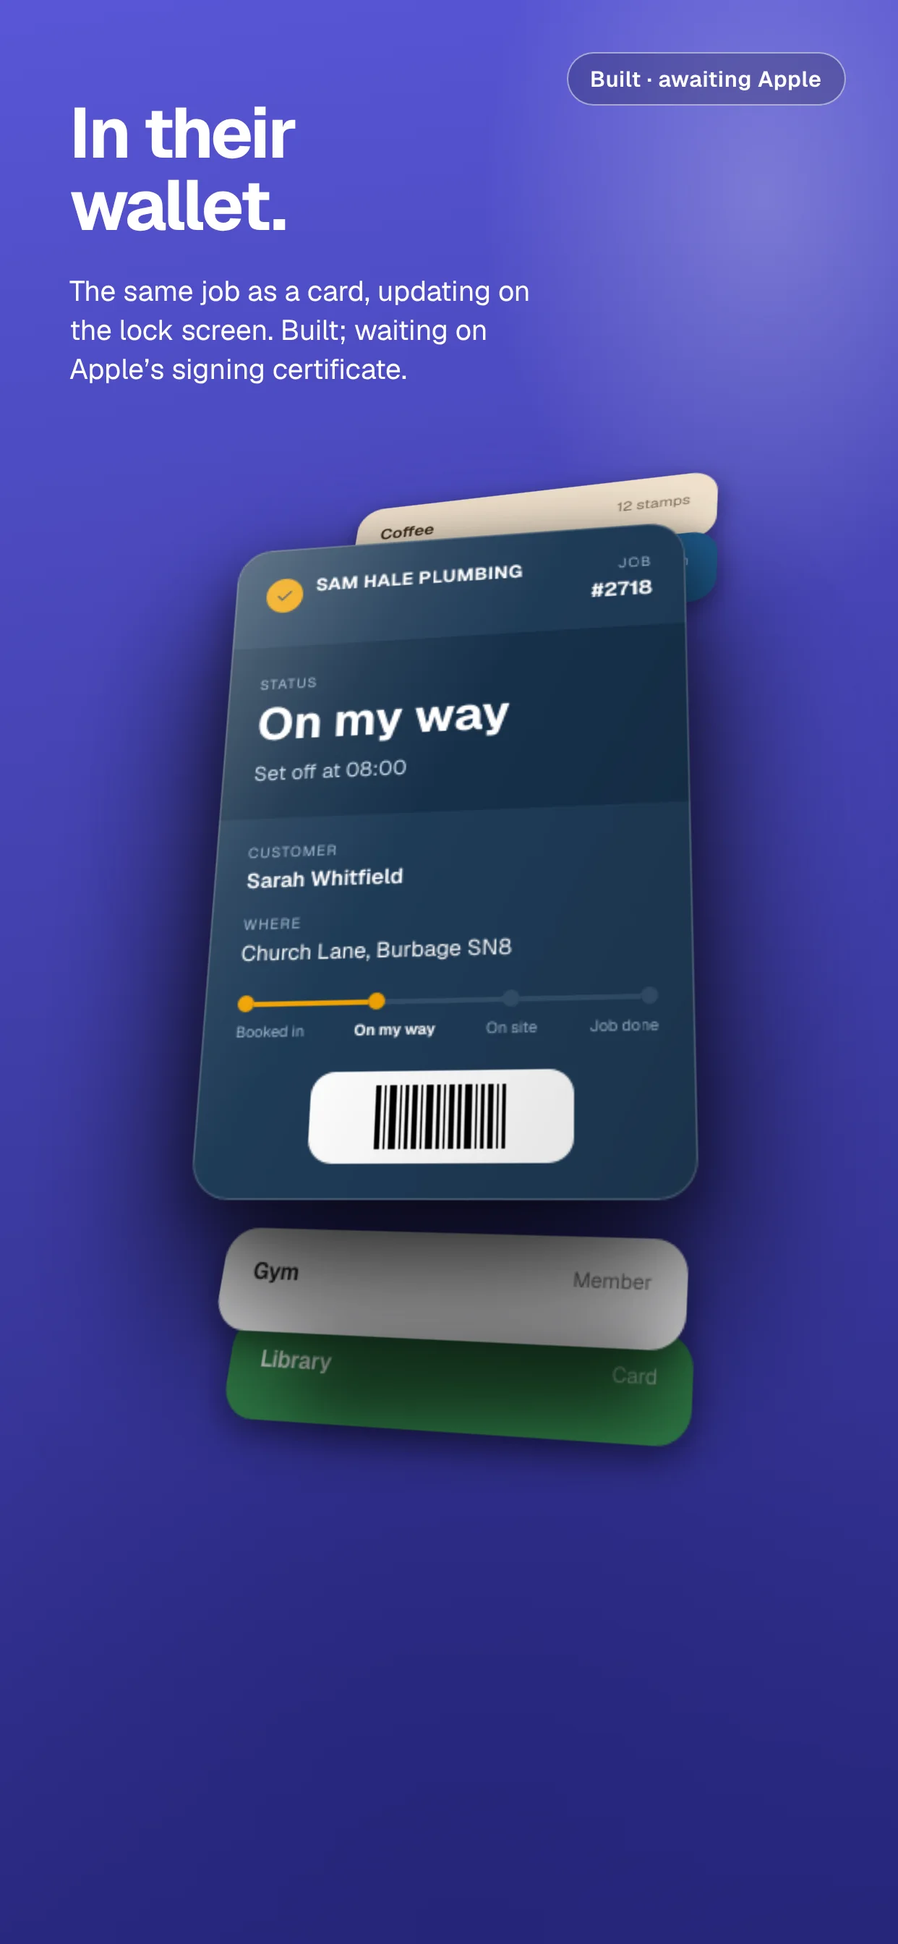
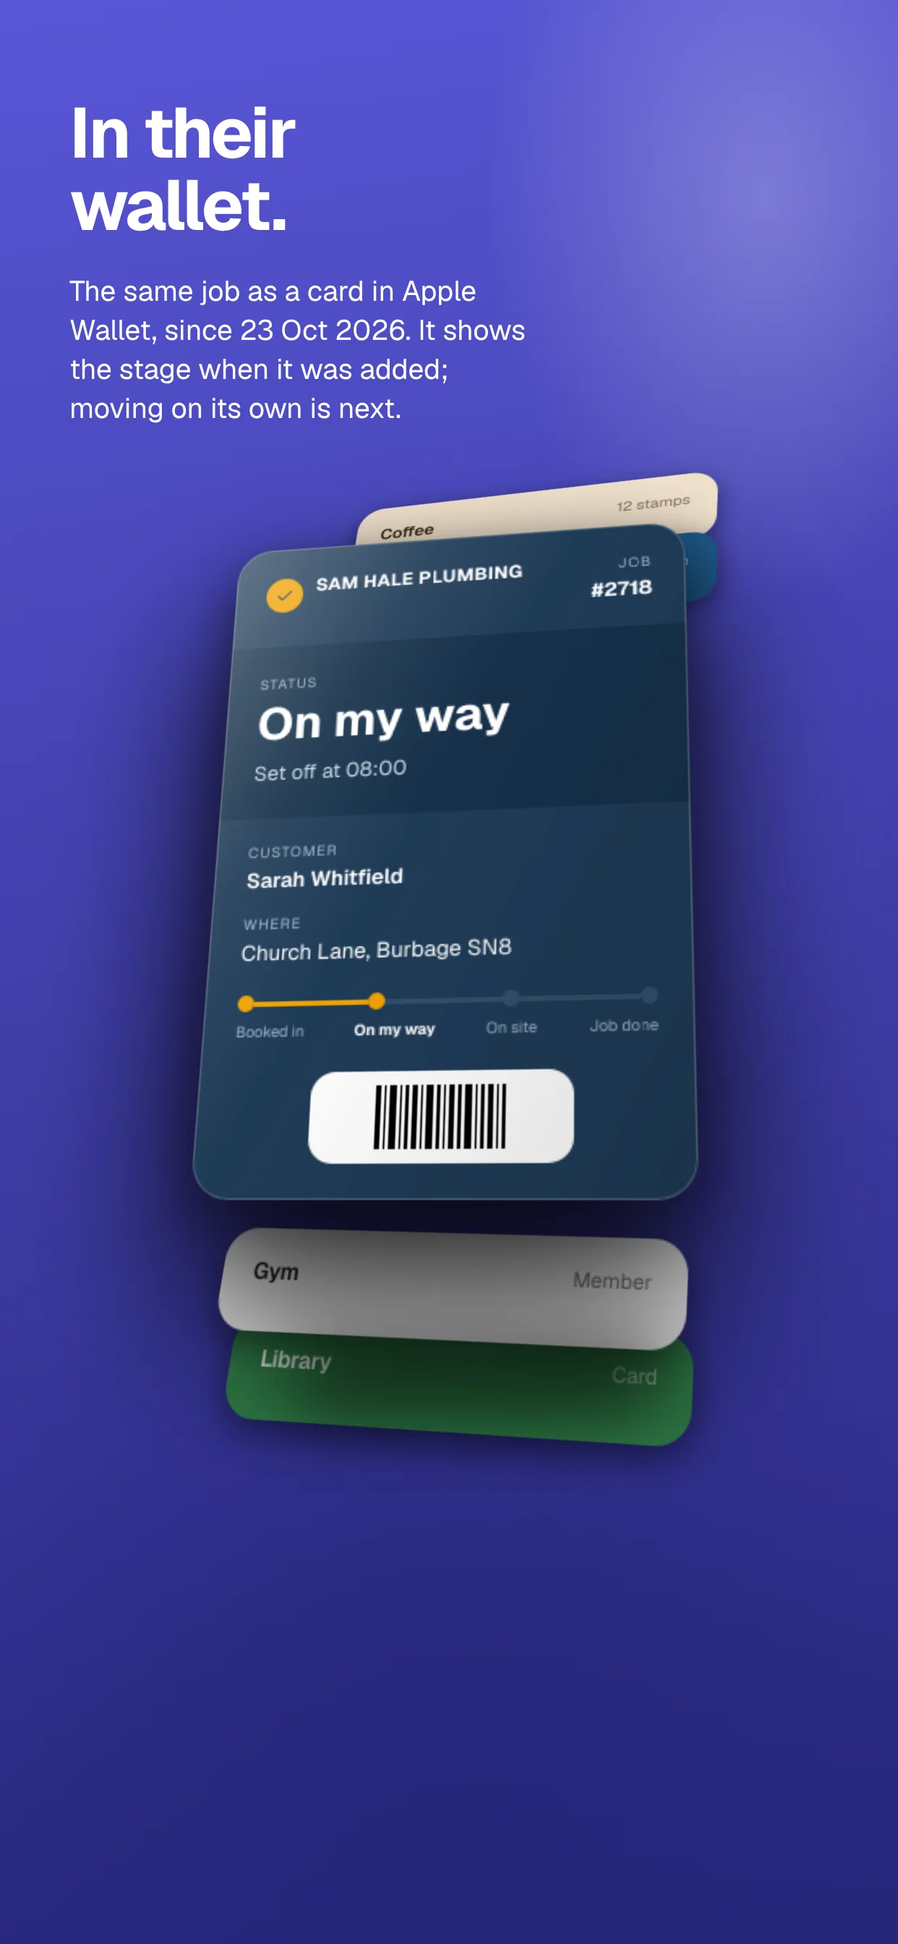
v1.71.1: the card is in a wallet
The first real TurnUp pass was added to Apple Wallet on the owner's iPhone
on 23 Oct 2026, from a live job link. So the words move: the "Built,
awaiting Apple" badge comes off the homepage and the WalletStory section,
the wallet poster is live (re-shot, so the badge is not baked into the
frame), wallet-pass in the roadmap is live, the plan's row is green and its
next step is the update service, and CLAUDE.md's "Not built yet" says what
is true: on an iPhone it is a card, a still one; on Android it is a link.

Nothing says the card updates itself. It shows the stage from when it was
added; the PassKit web service and the APNs push are the next build.

Claude-Session: https://claude.ai/code/session_01CJXUr3iMKBtG4JFBvyaxwW

Changed region(s): [[0.0612, 0.125, 0.5813, 0.2188], [0.6119, 0.0, 0.9485, 0.0625]]

diff --git a/src/lib/plan.js b/src/lib/plan.js
@@ -31,7 +31,7 @@ export const PLAN_META = {
   walletDocUrl: 'https://github.com/willgaze/turnup/blob/main/docs/apple-wallet.md',
   diaryUrl: 'https://github.com/willgaze/turnup/tree/main/docs/diary',
   liveSince: '8 Oct 2026',
-  updated: '22 Oct 2026',
+  updated: '23 Oct 2026',
 }
 
 export const STAGES = [
@@ -67,8 +67,8 @@ export const MOATS = [
   },
   {
     n: '3', name: 'One integration', line: 'Both wallets, the update loop, push, SMS fallback, the privacy rules. They would rather buy that than own it.',
-    today: ['Apple pass signing: built, unsigned', 'Push: live, a real buzz on a real phone', 'ServiceM8: connected, reads every booking, texts the link, follows a move', 'The email letterbox: a Cloudflare Worker, receiving since 18 Oct', 'Email through ServiceM8 when push cannot reach a phone', 'Privacy rules: written and checked by script'],
-    missing: ['A signed pass in a real wallet', 'Google Wallet', 'The pass update web service', 'An API another firm can call'],
+    today: ['Apple Wallet card: live, the first one added 23 Oct 2026; static until the update service', 'Push: live, a real buzz on a real phone', 'ServiceM8: connected, reads every booking, texts the link, follows a move', 'The email letterbox: a Cloudflare Worker, receiving since 18 Oct', 'Email through ServiceM8 when push cannot reach a phone', 'Privacy rules: written and checked by script'],
+    missing: ['Google Wallet', 'The pass update web service', 'An API another firm can call'],
     gate: 'A firm that is not customer zero calls the API', pct: 40,
   },
 ]
@@ -88,7 +88,7 @@ export const STATUS = [
   { item: 'Privacy policy', state: 'green', note: 'a public page, getturnup.com/privacy, since 17 Oct 2026' },
   { item: 'ServiceM8 Add-on Store', state: 'amber', note: 'listing written 17 Oct 2026; public release needs an account per trade and a support mailbox' },
   { item: 'Lock-screen app (iOS)', state: 'amber', note: 'the job as a Live Activity, written 15 Oct 2026; the Apple enrolment is live since 21 Oct, the signing job for the app is next' },
-  { item: 'Apple Wallet card', state: 'amber', note: 'certificate live 21 Oct 2026: /api/passes serves a pass signed by Apple\'s chain (checked). Amber until the first card is seen in a real wallet' },
+  { item: 'Apple Wallet card', state: 'green', note: 'live: certificate 21 Oct 2026, first real card in the owner\'s wallet 23 Oct 2026. It shows the stage from when it was added; the update service is the next build' },
   { item: 'Google Wallet card', state: 'red', note: 'not built; decide whether to build on a pass platform' },
   { item: 'Paying customers', state: 'red', note: `none, ${TRADE_NAME} is customer zero` },
   { item: 'Pricing', state: 'amber', note: 'free for every sender, enterprise per card, decided 9 Oct 2026' },
@@ -98,7 +98,7 @@ export const STATUS = [
 /** The three things only the owner can move, each with the link and the step. */
 export const WAITING_ON_OWNER = [
   { label: 'Start the thirty-day count', step: 'Press Start on the pilot panel: the thirty days count from that day, not from whenever you look. The app counts three numbers; you type the calls to the booking line on the same panel. Move 1', href: 'https://www.getturnup.com/dashboard?open=pilot' },
-  { label: 'Put the first card in a wallet', step: 'Certificate done 21 Oct; /api/passes answers 200 with a signed pass. Next: Add to Apple Wallet on the owner\'s iPhone, then the badge, the roadmap and this row go live. The pass web service is the build after', href: 'https://github.com/willgaze/turnup/blob/main/docs/apple-wallet.md' },
+  { label: 'Make the card move on its own', step: 'First card in a wallet 23 Oct 2026. Next: the PassKit web service (/api/passes/v1: device registration, what changed) and an APNs push with the same certificate, so a stage tap updates the card. Until then it shows the stage from when it was added', href: 'https://github.com/willgaze/turnup/blob/main/docs/apple-wallet.md' },
   { label: 'ServiceM8 developer account', step: 'Free. Puts every TurnUp event in the job diary and opens the add-on listing. Move 3', href: 'https://www.servicem8.com/developer-registration' },
 ]
 
@@ -130,7 +130,7 @@ export const PRODUCT = {
     { label: 'A household card per address', note: 'the plumber, the sofa, the parcels, from forwarded email; a home makes its own on /join' },
     { label: 'Email when no notification lands', note: 'set off, window missed, the day-before ask; through ServiceM8, from the trade’s own address, once per job' },
     { label: 'ServiceM8 sends the link', note: 'every booking followed; check-in moves the card to On site, completion to Job done' },
-    { label: 'Apple Wallet card', note: 'signed pass served since 21 Oct 2026; first wallet add still to be seen' },
+    { label: 'Apple Wallet card', note: 'live since 23 Oct 2026; static until the update service' },
     { label: 'Old links keep working', note: 'tradestatus.vercel.app still serves' },
   ],
   never: [
@@ -149,7 +149,7 @@ export const PRODUCT = {
 export const FLOW = {
   inputs: ['Trade taps a stage', 'ServiceM8 check-in or check-out', 'A forwarded delivery email', 'An enterprise scheduler, by API'],
   core: 'TurnUp',
-  outputs: ['The link, on any phone', 'The household card, beside the parcels', 'A buzz on the lock screen', 'The card in the wallet, once signed'],
+  outputs: ['The link, on any phone', 'The household card, beside the parcels', 'A buzz on the lock screen', 'The card in Apple Wallet'],
 }
 
 /** The wallet card: what exists, what is missing, and why it is the product. */
@@ -162,7 +162,7 @@ export const WALLET = {
   ],
   built: [
     { label: 'Pass design and signing', note: 'tested end to end with a stand-in certificate chain, v1.15.4' },
-    { label: 'Add to Apple Wallet button', note: 'appears on the customer page on an Apple device, once a pass can be signed' },
+    { label: 'Add to Apple Wallet button', note: 'on the customer page on an Apple device; live' },
     { label: 'Three-command certificate script', note: 'scripts/apple-wallet.sh: csr, finish, then vercel, which never uploads the key folder' },
     { label: 'Name and stage on the pass', note: 'from the trade profile; the logo itself is not on the pass yet' },
   ],
@@ -170,8 +170,7 @@ export const WALLET = {
     { label: 'Apple Developer Programme', note: 'the owner enrols as an individual, 79 pounds a year', who: 'owner' },
     { label: 'Pass update web service', note: '/api/passes/v1: device registration, what changed, APNs push, so the card updates itself. Today a pass shows the stage at the moment it was added', who: 'build' },
     { label: 'Google Wallet', note: 'issuer account, a pass class, and the same update loop on Android. Or a pass platform, if faster', who: 'build' },
-    { label: 'A real pass in a real wallet', note: 'nobody has held one yet. The first one is the test', who: 'owner' },
-  ],
+      ],
 }
 
 /** Who else solves this. A working view, not a product-by-product study. */
@@ -253,7 +252,7 @@ export const CALC_DEFAULTS = { freeSenders: 50, newFree: 20, enterprises: 0, new
 /** Six moves, in order. Each opens when the gate before it is passed. */
 export const GTM_PHASES = [
   { phase: '1', label: 'Prove it on my own jobs', gate: 'Thirty days, four numbers', moves: ['ServiceM8 connected, the link in every booking text', 'Asked the day before: will someone be in? Built 11 Oct 2026', 'Links opened, “in?” answered, wasted trips, “when are you coming?” calls', 'If the first two stay low, the product is wrong, not the pitch'], when: 'Now', state: 'amber' },
-  { phase: '2', label: 'Sign the pass', gate: 'One card in one wallet', moves: ['Apple Developer, as an individual', 'First real pass, on the owner’s phone', 'The update loop so it moves'], when: 'Now', state: 'amber' },
+  { phase: '2', label: 'Sign the pass', gate: 'One card in one wallet: met 23 Oct 2026', moves: ['Apple Developer, as an individual: done 21 Oct 2026', 'First real pass, on the owner’s phone: done 23 Oct 2026', 'The update loop so it moves: next'], when: 'Now', state: 'amber' },
   { phase: '3', label: 'Be ServiceM8’s card', gate: 'Ten ServiceM8 trades sending', moves: ['Connector live on customer zero: done, 9 Oct 2026', 'Add-on listing: written 17 Oct 2026; public release needs an account per trade and a support mailbox', 'Ask ten ServiceM8 trades, once, whether they would pay £9.99 a month: the research’s one cheap test, before any billing is built', 'An account per trade, so a second business can sign up', 'Stage vocabulary published'], when: 'Q4 2026', state: 'gray' },
   { phase: '4', label: 'Android, on a pass platform if faster', gate: 'Both wallets live', moves: ['Decide: PassKit or our own', 'Google Wallet pass class', 'Same update loop'], when: 'Q1 2027', state: 'gray' },
   { phase: '5', label: 'The household asks for it', gate: 'Household-requested cards outnumber trade-sent', moves: ['The household card exists, 12 Oct 2026; a home makes its own on /join since 18 Oct', 'Customer-invite: one screen', 'Remembered for the next trade'], when: '2027 H1', state: 'gray' },
@@ -279,7 +278,7 @@ export const RISKS = [
   { label: 'ServiceM8 ships a reopenable status page', likelihood: 'high', answer: 'Be their card first: the add-on in their store, the record they do not keep. Public standard', kind: 'estimate' },
   { label: 'Free for everyone earns nothing for a year', likelihood: 'high', answer: 'Hosting is pence a card. The Ltd and a raise decision come before the first enterprise', kind: 'estimate' },
   { label: 'The owner has no spare hours', likelihood: 'high', answer: 'The nightly build does the building', kind: 'estimate' },
-  { label: 'Apple never signs the pass', likelihood: 'low', answer: 'The link works without it. The card is the upgrade, not the floor', kind: 'estimate' },
+  { label: 'Apple never signs the pass', likelihood: 'closed', answer: 'Apple signed it on 21 Oct 2026 and the first card was in a wallet on 23 Oct. The link still works without it', kind: 'fact' },
   { label: 'Name clash on TurnUp', likelihood: 'medium', answer: 'Trademark check before spending on the name', kind: 'estimate' },
   { label: 'Customer data on a public link', likelihood: 'low', answer: 'Stage only. Answers never leave the device', kind: 'estimate' },
   { label: 'The household card only reads email; carriers text', likelihood: 'high', answer: 'Read the shop’s dispatch email and say so. Never read SMS: that needs an app, which we promised never to need', kind: 'estimate' },
@@ -347,7 +346,7 @@ export const REVIEWER = {
     { id: 'toby:read', label: 'The share link has been opened on your own phone and read end to end' },
     { id: 'toby:updated', label: 'The plan’s “updated” date is inside the last week' },
   ],
-  notGatedOn: 'Not waiting for Apple. The pass being unsigned is a fact on the Wallet page, and he will understand it better than anyone.',
+  notGatedOn: 'Not waiting on the update service. The card is in a wallet and does not yet move on its own; that is a fact on the Wallet page, and he will understand it better than anyone.',
   message: `Toby, I'd like you to sign up to this. It's an idea I've had: one link per job that tells the customer when the plumber is actually coming, ending up as a card in their wallet. I've built it and I'm using it on my own jobs now.
 
 I'd really like your thoughts. If you think it's a good idea, tell me what's wrong with it. If you don't, tell me that.

diff --git a/src/components/WalletStory.jsx b/src/components/WalletStory.jsx
@@ -313,7 +313,7 @@ function PassBack() {
 const LIKE = [
   ['One per job', 'like a ticket', <TickIcon key="t" size={20} />],
   ['Beside their bank card', 'where they already look', <WalletIcon key="w" size={20} />],
-  ['Will change as the job moves', 'once Apple signs it: not yet', <BellIcon key="b" size={20} />],
+  ['Will change as the job moves', 'the update service is next: not yet', <BellIcon key="b" size={20} />],
   ['Scan it', 'the page opens', <PhoneIcon key="p" size={20} />],
 ]
 
@@ -324,7 +324,7 @@ export default function WalletStory() {
       <div>
         <div className="flex flex-wrap items-center gap-2">
           <H3>Where it lives</H3>
-          <Badge>Built · awaiting Apple</Badge>
+          <Badge>In Apple Wallet</Badge>
         </div>
         <p className="mt-1 text-[15px] muted">The buzz on the lock screen is live today.</p>
         <div className="mt-4"><Journey /></div>
@@ -337,7 +337,7 @@ export default function WalletStory() {
 
       <div>
         <H3>It will move with the job</H3>
-        <p className="mt-1 text-[15px] muted">Same card. The dot moves, once the pass is signed and its update service is built. Today the page does this; the card is next.</p>
+        <p className="mt-1 text-[15px] muted">Same card. The dot moves once its update service is built. Today the page does this; the card shows the stage from when it was added.</p>
         <div className="mt-4"><Stages /></div>
       </div>
 

diff --git a/src/lib/roadmap.js b/src/lib/roadmap.js
@@ -104,9 +104,9 @@ export const PHASES = [
       { key: 'native-app', name: 'Your job on your lock screen', state: 'ready',
         what: 'The iOS app: the dashboard in a native window, and the job you are on as a Live Activity — stage, time, note, and On site / Paused / Job done buttons on the lock screen and in the Dynamic Island. Written in native/; builds and lands on TestFlight the day Apple says yes.',
         needs: 'Apple Developer Program, £79/yr' },
-      { key: 'wallet-pass', name: 'The card in Apple Wallet', state: 'ready',
-        what: 'Updates itself on the lock screen when you tap a stage.',
-        needs: 'Apple Developer Program, £79/yr' },
+      { key: 'wallet-pass', name: 'The card in Apple Wallet', state: 'live',
+        what: 'Add to Apple Wallet on the job link. First real card added 23 Oct 2026. It shows the stage from when it was added; updating itself is the next build.',
+        needs: 'Live' },
       { key: 'google-wallet', name: 'The same card on Android', state: 'idea',
         what: 'Google Wallet pass alongside the Apple one.',
         needs: 'Google Wallet issuer account, free' },

diff --git a/src/lib/posters.js b/src/lib/posters.js
@@ -73,8 +73,8 @@ export const FRAMES = [
   f('t-run', 'trade', 'live', NAVY,
     'Your day,\nin order.', 'What you are on, what is next, what is finished. Nothing else on the screen.',
     { screen: '/home/trade-run.webp', alt: 'The dashboard: the day’s jobs in order' }),
-  f('t-wallet', 'trade', 'ready', INDIGO,
-    'In their\nwallet.', 'The same job as a card, updating on the lock screen. Built; waiting on Apple’s signing certificate.',
+  f('t-wallet', 'trade', 'live', INDIGO,
+    'In their\nwallet.', 'The same job as a card in Apple Wallet, since 23 Oct 2026. It shows the stage when it was added; moving on its own is next.',
     { wallet: true, alt: 'The job as a wallet card, lifted out of a stack of other cards' }),
 
   // ---- either end ---------------------------------------------------------------

diff --git a/src/app/page.js b/src/app/page.js
@@ -129,7 +129,7 @@ export default function Home() {
               <span>The job, as a card in their wallet.</span>
               <span className="inline-flex items-center rounded-full border px-2 py-0.5 text-[12px] font-semibold"
                     style={{ color: 'var(--tint)', borderColor: 'color-mix(in srgb, var(--tint) 35%, transparent)', background: 'color-mix(in srgb, var(--tint) 10%, transparent)' }}>
-                Built · awaiting Apple
+                In Apple Wallet
               </span>
             </figcaption>
           </figure>

diff --git a/src/app/preview/posters/Posters.jsx b/src/app/preview/posters/Posters.jsx
@@ -22,7 +22,9 @@ const DEMO = {
   jobAddress: 'Church Lane, Burbage SN8', arrivingAt: '2026-10-01T07:00:00.000Z',
 }
 
-const BADGE = { ready: 'Built · awaiting Apple', next: 'Next' }
+// 'ready' carried "Built · awaiting Apple" until 23 Oct 2026, when the first
+// real card went into a wallet. A live poster carries no badge.
+const BADGE = { next: 'Next' }
 
 /* How much of the cab photograph a poster shows. Wider than the canvas, so
  * the screen is big enough to read, shifted right so the glass sits

diff --git a/CLAUDE.md b/CLAUDE.md
@@ -1508,38 +1508,39 @@ calling it done; nothing scrolls sideways but a strip that means to.
 
 ## Not built yet
 
-**The wallet pass.** This is the premise of the product and it does not exist.
-Today the customer gets a web page; the idea is a card that sits in Apple
-Wallet and Google Wallet and updates itself. Both need credentials the
-repository does not have:
+**The wallet pass.** The premise of the product, and since 23 Oct 2026 it
+exists on Apple: **Add to Apple Wallet** on a live job link puts a signed card
+in the wallet. The first real one went into the owner's own iPhone that day.
+What it does not yet do is move: a pass shows the stage from the moment it was
+added, because the PassKit web service (`/api/passes/v1`: device registration,
+"what changed", and an APNs push with the same certificate) is not built. The
+pass JSON already advertises `webServiceURL`, so Wallet will start calling it
+the day the routes exist. **Do not say anywhere customer-facing that the card
+updates itself** until it does; `WalletStory.jsx` says the page does this today
+and the card is next, and that stays true until the service ships.
 
-- **Apple Wallet (PassKit)** — an Apple Developer Program membership and a Pass
-  Type ID certificate. Everything else is built and tested with a stand-in
-  chain (v1.15.4): `bash scripts/apple-wallet.sh csr` makes the key and the
-  request, `finish pass.cer` turns Apple's certificate into the six `PASSKIT_*`
-  settings (`docs/apple-wallet.md`). The library wants **PEM, never a .p12**.
-  **The enrolment went through on 21 Oct 2026**, so the certificate is the
-  next thing, and it is a Cowork job on the owner's Mac
-  (`docs/cowork-apple-wallet.md`): the key must be made where it survives,
-  never in a session container. The script falls back for macOS's LibreSSL,
-  which has no `-traditional` flag and writes PKCS#1 anyway.
+- **Apple Wallet (PassKit)**: live. The Apple Developer enrolment went through
+  on 21 Oct 2026 and the certificate (`pass.com.getturnup.job`, team
+  `WTS45T2YD3`, good until 20 Nov 2027, calendar reminder set) was made the
+  same day as a Cowork job on the owner's Mac (`docs/cowork-apple-wallet.md`),
+  because the key must be made where it survives, never in a session
+  container. `bash scripts/apple-wallet.sh csr` makes the key and the request,
+  `finish pass.cer` turns Apple's certificate into the six `PASSKIT_*`
+  settings (`docs/apple-wallet.md`), and `vercel` puts them in Vercel. The
+  library wants **PEM, never a .p12**. The script falls back for macOS's
+  LibreSSL, which has no `-traditional` flag and writes PKCS#1 anyway.
   **The `vercel` step never deploys from the key folder** (21 Oct 2026): it
   used to end in `vercel --prod --yes`, which run inside `~/TurnUp-Apple`
   uploads the folder, key and all, to a new project named after it. It now
   links to `turnup` by name, writes `.vercelignore` with `*`, and uses
   `vercel redeploy` on the live host. Keep `vercel deploy`/`--prod` out of it.
-  **The certificate is live since 21 Oct 2026**: `/api/passes/<code>` serves a
-  signed pass and the signature verifies against Apple's chain (checked from a
-  session the same day). The badge, the roadmap and the plan stay amber until
-  the first card is seen in a real wallet.
-  Still to build once a real pass is in a wallet: the `/api/passes/v1` web
-  service (device registration, "what changed" and APNs pushes) so the card
-  updates itself; today a pass shows the stage at the moment it was added.
-- **Google Wallet** — a Google Cloud project, a Wallet API issuer account, and
-  a service account key.
+  Checked from a session on 21 Oct: `/api/passes/<code>` serves a `.pkpass`
+  whose signature verifies against Apple's WWDR G4 chain.
+- **Google Wallet**: not built. A Google Cloud project, a Wallet API issuer
+  account, and a service account key.
 
-Until those exist, the honest position is that this is a link, not a card. Do
-not describe it as a wallet pass anywhere customer-facing.
+The honest position: on an iPhone it is a card, a still one; on Android it is
+a link. Say exactly that and no more.
 
 ## Every build updates the words (Standing Rule 24, Will, 12 Oct 2026)
 

diff --git a/docs/apple-wallet.md b/docs/apple-wallet.md
@@ -87,13 +87,13 @@ names the `turnup` project and redeploys the live build; it never runs
 
 **Seen on 21 Oct 2026:** `/api/passes/<code>` returned 200, a signed `.pkpass`
 for `pass.com.getturnup.job`, team `WTS45T2YD3`, and the signature verified
-against Apple's WWDR G4 chain. The first add to a real wallet is the next thing.
+against Apple's WWDR G4 chain. **On 23 Oct 2026 the first real card was added to
+Apple Wallet on the owner's iPhone.** The update service is the next thing.
 
 - `/api/passes/<code>` starts returning a signed `.pkpass` instead of a 503.
 - **Add to Apple Wallet** appears on every live customer page, on Apple devices.
-- The homepage frame badge "Built · awaiting Apple" is still a static label in
-  `src/app/preview/posters/Posters.jsx`; change it when the first real card is
-  in a wallet.
+- The homepage badge and the wallet poster said "Built · awaiting Apple" until
+  23 Oct 2026, the day the first real card went into a wallet. Gone since v1.71.1.
 
 ## What the pass does today, honestly
 

diff --git a/docs/cowork-apple-wallet.md b/docs/cowork-apple-wallet.md
@@ -159,11 +159,11 @@ button does. There is no `vercel deploy` or `vercel --prod` in the script.
 
 ## After it is in a wallet
 
-- `src/app/preview/posters/Posters.jsx` carries the badge "Built · awaiting
-  Apple" on the wallet frame; change it the day the first real card is in a
-  wallet.
-- The roadmap item `wallet-pass` in `src/lib/roadmap.js` moves to `live`, and
-  the plan's STATUS row goes green, in the same push.
+**The first real card went into the owner's wallet on 23 Oct 2026.** Done
+that day (v1.71.1): the "Built · awaiting Apple" badge is gone from the
+homepage and the wallet poster, `wallet-pass` in `src/lib/roadmap.js` is
+`live`, and the plan's STATUS row is green.
+
 - The pass does not yet update itself: that is the PassKit web service
   (`/api/passes/v1/...`) and an APNs push, the next build after this.
 - The lock-screen app is the other thing the membership unlocks; its own
